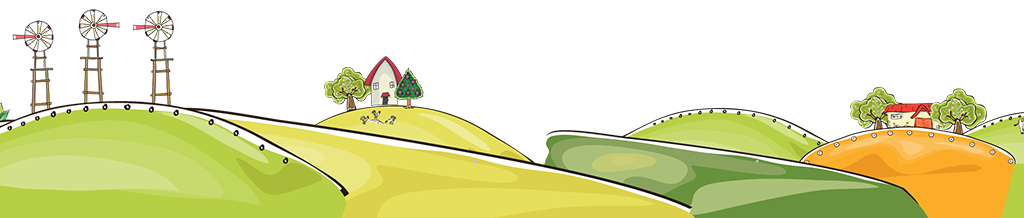
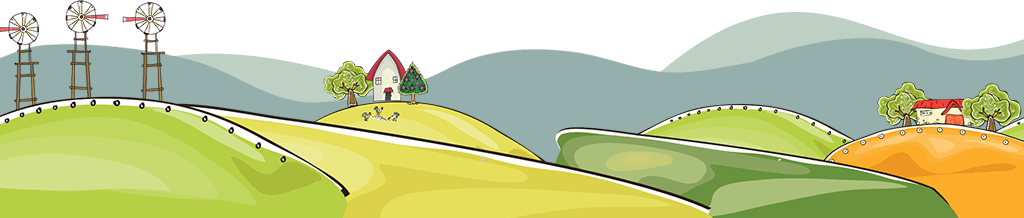
tablet updates

diff --git a/components/Footer.js b/components/Footer.js
@@ -71,7 +71,7 @@ function Footer({
               alt="footer"
             ></Image>
           </div>
-          <div className="hills-back">
+          {/* <div className="hills-back">
             <Image
               src="/images/footerTablet/hills_tablet.png"
               width={1024}
@@ -79,7 +79,7 @@ function Footer({
               priority
               alt="hills"
             ></Image>
-          </div>
+          </div> */}
         </div>
       </div>
       <div
